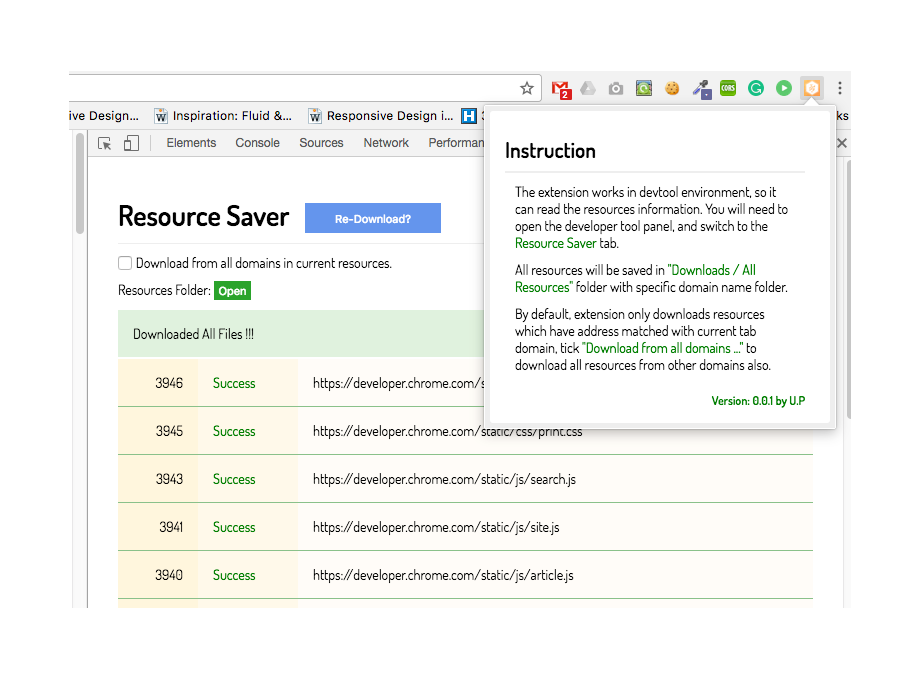
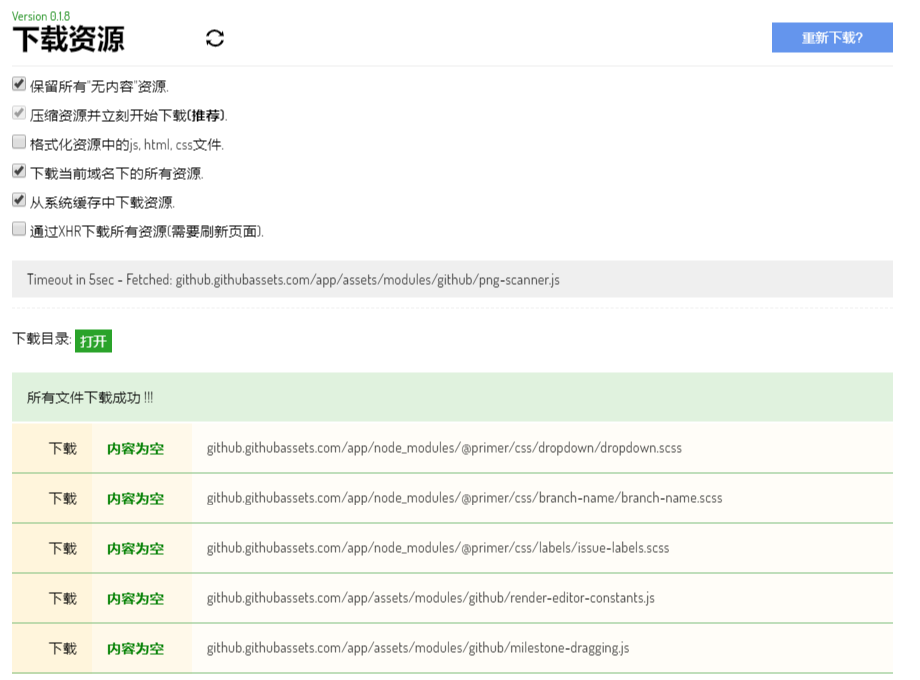
img

Changed region(s): [[0.0, 0.0, 0.9739, 1.0], [0.213, 0.0309, 0.2435, 0.0926]]

diff --git a/unpacked/content.js b/unpacked/content.js
@@ -49,11 +49,11 @@ document.addEventListener('DOMContentLoaded', function () {
     if (document.getElementById('check-xhr').checked) {
       chrome.devtools.network.getHAR(function (logInfo) {
         if (!isDownloading) {
-          document.getElementById('status').innerHTML = 'Requests: ' + logInfo.entries.length;
+          document.getElementById('status').innerHTML = '请求数量: ' + logInfo.entries.length;
         }
         chrome.devtools.inspectedWindow.getResources(function (resources) {
           if (!isDownloading) {
-            document.getElementById('status').innerHTML += ' | Static Resources: ' + resources.length;
+            document.getElementById('status').innerHTML += ' | 静态资源数量: ' + resources.length;
           }
         })
       });
@@ -72,8 +72,8 @@ document.addEventListener('DOMContentLoaded', function () {
   document.getElementById('check-xhr').addEventListener('change', function (e) {
     if (e.target.checked) {
       // If change from false to true
-      document.getElementById('label-xhr').innerHTML = 'Reloading page for collecting XHR requests ...'; //Include all assets by XHR requests
-      document.getElementById('up-save').innerHTML = 'Waiting for reload';
+      document.getElementById('label-xhr').innerHTML = '通过XHR下载所有资源.'; //Include all assets by XHR requests
+      document.getElementById('up-save').innerHTML = '等待页面重新刷新';
       document.getElementById('up-save').disabled = true;
       // Add listener, only when the check box is from unchecked to checked
       chrome.tabs.onUpdated.addListener(tabCompleteHandler);
@@ -122,8 +122,8 @@ function tabCompleteHandler(tabId, changeInfo) {
   if (tabId === chrome.devtools.inspectedWindow.tabId && changeInfo.status === 'complete') {
     document.getElementById('check-xhr').checked = true;
     document.getElementById('check-xhr').disabled = false;
-    document.getElementById('label-xhr').innerHTML = 'Include all assets by XHR requests (require page reload).';
-    document.getElementById('up-save').innerHTML = 'Save All Resources';
+    document.getElementById('label-xhr').innerHTML = '通过XHR下载所有资源(需要刷新页面).';
+    document.getElementById('up-save').innerHTML = '下载所有资源';
     document.getElementById('up-save').disabled = false;
     // Remove listener from further same event
     chrome.tabs.onUpdated.removeListener(tabCompleteHandler);
@@ -218,7 +218,7 @@ function saveAllResources(e) {
         // This function returns array of resources available in the current window
 
         // Disable button
-        e.target.innerHTML = 'Downloading...';
+        e.target.innerHTML = '正在下载...';
         e.target.disabled = true;
 
         var allResources = xhrResources.concat(resources);
@@ -962,34 +962,3 @@ function debounce(func, wait, immediate) {
     if (callNow) func.apply(context, args);
   };
 };
-
-// console.log('Hello from -> Content');
-
-// Communication between tab and extension
-// Inject a message sending from an active tab
-//setTimeout(function(){
-//	chrome.tabs.executeScript(chrome.devtools.inspectedWindow.tabId, {
-//		code: 'window.addEventListener("load", function(){chrome.runtime.sendMessage({type: "RELOADED"})}, false);'
-//	});
-//},3000);
-
-// Communication between tab and extension
-// Function when this extension get an message event and react that
-//chrome.runtime.onMessage.addListener(
-//	function(request, sender, sendResponse) {
-//		//	console.log(request.type,sender.tab.id,chrome.devtools.inspectedWindow.tabId)
-//		if (request.type === 'RELOADED' && sender.tab.id === chrome.devtools.inspectedWindow.tabId) {
-//			document.getElementById('check-xhr').checked = true;
-//			document.getElementById('check-xhr').disabled = false;
-//			document.getElementById('label-xhr').innerHTML = 'Include all assets by XHR requests'
-//			document.getElementById('up-save').innerHTML = 'Save All Resources';
-//			document.getElementById('up-save').disabled = false;
-//		}
-//	}
-//);
-
-// resources[i].getContent(function (content, encoding) {
-//	alert("encoding is " + encoding);
-//	alert("content is  " + content);
-// 	document.getElementById('debug').innerHTML += '<p>'+ cUrl +'</p>';
-// });

diff --git a/README.md b/README.md
@@ -1,3 +1,5 @@
-# Resources Saver Extension插件汉化版
+# Resources Saver Extension 谷歌插件
+
+帮助你将网站下载到本地，并保持原有的目录结构
 
 https://github.com/up209d/ResourcesSaverExt
